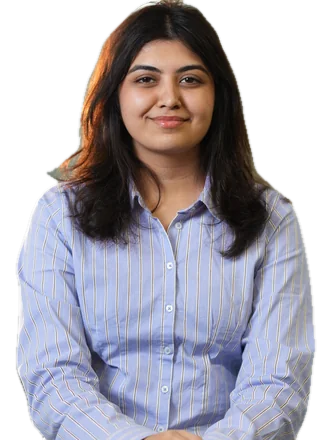
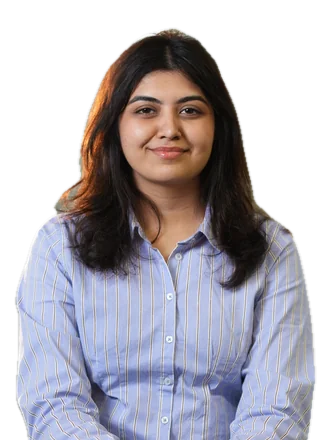
/live: headroom above every head, and a manifest that matches the disk
The crop placed the eyes at a fixed height and assumed the hair would fit
above them. It does not: a face box runs eyebrows to chin and says nothing
about hair, which varies by more than the margin that left — 91 of the first
105 came out with hair flush against the top edge.

So the crop is taken tall, the background removed, and *then* the topmost
opaque pixel measured and the frame placed against it. Everyone gets 27px in
a 440 frame, which is 8px at the size the squad renders, whatever their hair
is doing. A photograph with nothing above the head is reported by name rather
than shipped clipped.

scripts/register-people.py rewrites PEOPLE_PHOTOS from what is on disk.
Re-running the fetch meant emptying public/people first, and the manifest went
on claiming 105 files — every card showed broken images until this ran.

The header also drops its caption: "1st of 39 · All-time" repeated the numeral
behind the faces and the tab that opened the sheet.

diff --git a/config.ts b/config.ts
@@ -418,106 +418,5 @@ export const PEOPLE_PHOTOS: readonly string[] = [
   'VBC101/nirmalya-sah',
   'VBC101/sachidananda-dehury',
   'VBC101/tanishque-jain',
-  'VBC102/arpita-mahata',
-  'VBC102/diya-agarwal',
   'VBC102/simran-kalra',
-  'VBC103/kavya-zala',
-  'VBC103/pragati-singh',
-  'VBC104/preethi-s',
-  'VBC104/udhav-kothari',
-  'VBC105/harsh-malani',
-  'VBC105/meith-jain',
-  'VBC105/ritesh-oswal',
-  'VBC106/aarav',
-  'VBC106/tushar',
-  'VBC107/aditi',
-  'VBC107/satvik',
-  'VBC107/soumanshu',
-  'VBC108/akassh',
-  'VBC108/divyam',
-  'VBC108/vatsal',
-  'VBC109/ajitwsh-s',
-  'VBC109/ridhima-gupta',
-  'VBC109/shweta-singh',
-  'VBC110/diya-harish',
-  'VBC110/happy-panjwani',
-  'VBC110/rishika-choudhary',
-  'VBC111/jenessa-bhathena',
-  'VBC111/tanishq-lomte',
-  'VBC111/zalak-gogri',
-  'VBC112/naveen-kumar',
-  'VBC112/parin-kumat',
-  'VBC112/praval-goud-madduri',
-  'VBC113/archit-pathak',
-  'VBC113/riya-kothavade',
-  'VBC114/abhishek-kamblath',
-  'VBC114/aditi-roy',
-  'VBC114/kalika-srivastava',
-  'VBC115/dev-mehra',
-  'VBC115/maitree-shah',
-  'VBC115/risheet-gangar',
-  'VBC116/ananta-tantia',
-  'VBC116/rydham-jain',
-  'VBC116/vidhi-agarwal',
-  'VBC117/harsh-dubey',
-  'VBC117/pratiksha-bengani',
-  'VBC117/rishika-uppalapati',
-  'VBC118/adithya-rajagopalan',
-  'VBC118/rahul-m',
-  'VBC118/sairaj-g',
-  'VBC119/abeer-bhati',
-  'VBC119/bhadar-singh',
-  'VBC119/utkarsh-kapoor',
-  'VBC120/anushka-ghogre',
-  'VBC120/dhruvi-lohiya',
-  'VBC120/mayank-agrawal',
-  'VBC121/ashutosh-saxena',
-  'VBC121/sohum-shikhare',
-  'VBC121/tejas-joshi',
-  'VBC122/akristi-mohta',
-  'VBC122/itish-pande',
-  'VBC122/shashank-pandey',
-  'VBC123/akhilesh',
-  'VBC123/hritik',
-  'VBC123/yashwi',
-  'VBC124/aditya-peter',
-  'VBC124/naveen-kolla',
-  'VBC124/tanishkha',
-  'VBC125/anuj-bajaj',
-  'VBC125/darshan-chopda',
-  'VBC126/sarth',
-  'VBC126/vikram',
-  'VBC127/akshat',
-  'VBC127/lipika',
-  'VBC127/param',
-  'VBC128/adnaan-r',
-  'VBC128/akash-ghorpade',
-  'VBC128/vion-d-souza',
-  'VBC129/bhavya',
-  'VBC129/haider',
-  'VBC129/yogita',
-  'VBC130/anshul-dhapte',
-  'VBC130/devansh-mehta',
-  'VBC130/nikhil-kanjolia',
-  'VBC131/brijesh-attal',
-  'VBC131/rushabh-shah',
-  'VBC132/darsh-shah',
-  'VBC132/rohan-vivek',
-  'VBC132/sinchan-rai',
-  'VBC133/aditya-agarwal',
-  'VBC133/ansh-loya',
-  'VBC133/yaswanth-krishna',
-  'VBC134/dhyay',
-  'VBC134/preet',
-  'VBC134/yashansh',
-  'VBC135/devansh-vora',
-  'VBC135/madhuresh-binzani',
-  'VBC135/sakshi-awasthi',
-  'VBC136/aadishwar-r',
-  'VBC136/pratiksha-bihani',
-  'VBC138/radha-hutkey',
-  'VBC138/sahil-agrawal',
-  'VBC139/aditya-singhal',
-  'VBC139/bhavit-gupta',
-  'VBC139/harsh-nain',
 ]

diff --git a/components/live/TeamSheet.tsx b/components/live/TeamSheet.tsx
@@ -8,7 +8,7 @@ import { CountUp } from '@/components/live/CountUp'
 import { Emblem } from '@/components/live/Emblem'
 import { Squad } from '@/components/live/Lineup'
 import { SellsIcon } from '@/components/live/SellsIcon'
-import { formatCount, formatRupees, ordinal } from '@/lib/format'
+import { formatCount, formatRupees } from '@/lib/format'
 import {
   BOARD_KEYS,
   avgTicket,
@@ -165,12 +165,13 @@ export function TeamSheet({
                   transition={{ type: 'spring', stiffness: 400, damping: 36 }}
                 >
                   <h2 className="lv-sheet-name">{nameOf(race.self.team)}</h2>
-                  {/* No team id. It is a code for a spreadsheet, not a fact
-                      about a venture — the rows dropped it for the same
-                      reason. Search still matches on it. */}
-                  <p className="lv-sheet-sub">
-                    {ordinal(race.self.rank)} of {race.total} · {boardLabel(boardKey, mode)}
-                  </p>
+                  {/* **No caption under the name.** It read "1st of 39 ·
+                      All-time", and every part of that is already on screen:
+                      the rank is the numeral behind the faces and again on the
+                      placements row below, and which board you are looking at
+                      is the tab you pressed to get here. The team id went the
+                      same way and for the same reason — a code for a
+                      spreadsheet, not a fact about a venture. */}
                   {/* ── The stage: the rank behind, the faces in front ──
                    *
                    * The numeral used to be the biggest thing in the header,

diff --git a/app/live/live.css b/app/live/live.css
@@ -826,17 +826,6 @@ body:has(.lv-app[data-locked]) {
     color: inherit;
   }
 
-  .lv-sheet-sub {
-    margin: 7px 0 0;
-    /* Stated: the design system's `p` rule would otherwise paint it muted
-       purple, which disappears on every dark livery. */
-    color: inherit;
-    font-size: 11.5px;
-    font-weight: 700;
-    letter-spacing: 0.1em;
-    text-transform: uppercase;
-    opacity: 0.85;
-  }
 
   /* ── The squad ──────────────────────────────────────────── */
 

diff --git a/scripts/cutout.py b/scripts/cutout.py
@@ -36,7 +36,23 @@ QUALITY = 84
 # distances — or on a phone, or by LinkedIn — still come out the same size.
 FACE_W = 3.4
 FACE_H = 4.6
-EYE_LINE = 0.22
+
+# ── Headroom is measured on the cutout, not guessed from the face box ──
+#
+# The first version placed the eyes a fifth of the way down and hoped. **91 of
+# the first 105 came out with the hair flat against the top edge**, because the
+# face box a detector returns covers eyebrows to chin — it knows nothing about
+# how tall somebody's hair is, and that varies by more than the margin the
+# framing left.
+#
+# So the crop is taken deliberately tall, the background is removed, and *then*
+# the topmost opaque pixel — the real top of the hair — is measured and the
+# final window placed against it. Every student ends up with the same gap above
+# their head whatever their hair is doing.
+HEADROOM = 27  # px in a 440-tall frame ≈ 8px at the 132px the squad renders
+# How much taller than the final frame to cut before measuring. 1.6x covers the
+# tallest hair in the cohort with room to spare.
+OVERSHOOT = 1.6
 # How far a small photograph may be enlarged to fit the crop. Past about three
 # times, a 400px profile picture is mush and the initials are the better card.
 MAX_UPSCALE = 3.0
@@ -71,10 +87,16 @@ def face_box(model: cv2.FaceDetectorYN, image: Image.Image) -> tuple[int, int, i
 
 
 def portrait(image: Image.Image, box: tuple[int, int, int, int]) -> Image.Image:
-    """Head and shoulders, scaled off the face so everyone matches."""
+    """
+    A deliberately tall crop around the face, at the shared scale.
+
+    Taller than the frame that ships, because the top of the head cannot be
+    found until the background is gone — see `HEADROOM`. `frame` does the
+    final placement.
+    """
     x, y, w, h = box
     cw = w * FACE_W
-    ch = cw * HEIGHT / WIDTH
+    ch = cw * HEIGHT / WIDTH * OVERSHOOT
 
     # Enlarge a small source until the crop fits inside it, up to the cap.
     grow = max(cw / image.width, ch / image.height, 1.0)
@@ -82,13 +104,36 @@ def portrait(image: Image.Image, box: tuple[int, int, int, int]) -> Image.Image:
         grow = min(grow, MAX_UPSCALE)
         image = image.resize((round(image.width * grow), round(image.height * grow)), Image.LANCZOS)
         x, y, w, h = (round(v * grow) for v in (x, y, w, h))
-        cw, ch = w * FACE_W, w * FACE_W * HEIGHT / WIDTH
+        cw = w * FACE_W
+        ch = cw * HEIGHT / WIDTH * OVERSHOOT
 
     cw, ch = round(min(cw, image.width)), round(min(ch, image.height))
     cx, cy = x + w // 2, y + h // 2
     left = max(0, min(image.width - cw, round(cx - cw / 2)))
-    top = max(0, min(image.height - ch, round(cy - ch * EYE_LINE)))
-    return image.crop((left, top, left + cw, top + ch)).resize((WIDTH, HEIGHT), Image.LANCZOS)
+    # Centre the *face* in the tall crop and let `frame` decide the rest.
+    top = max(0, min(image.height - ch, round(cy - ch * 0.42)))
+    scale = WIDTH / cw
+    tall = image.crop((left, top, left + cw, top + ch))
+    return tall.resize((WIDTH, round(ch * scale)), Image.LANCZOS)
+
+
+def frame(cut: Image.Image) -> tuple[Image.Image, int]:
+    """
+    The final 330x440 window, placed so the top of the hair sits `HEADROOM`
+    below the top edge.
+
+    Returns the frame and the gap actually achieved — which is smaller only
+    when the photograph itself has nothing above the head, and the caller
+    reports those.
+    """
+    bbox = cut.getchannel("A").getbbox()
+    hair = bbox[1] if bbox else 0
+    top = max(0, hair - HEADROOM)
+    gap = hair - top
+
+    window = Image.new("RGBA", (WIDTH, HEIGHT), (0, 0, 0, 0))
+    window.paste(cut.crop((0, top, WIDTH, min(top + HEIGHT, cut.height))), (0, 0))
+    return window, gap
 
 
 def cut_out(image: Image.Image) -> Image.Image:

diff --git a/scripts/fetch-headshots.py b/scripts/fetch-headshots.py
@@ -38,7 +38,12 @@ sys.path.insert(0, str(Path(__file__).resolve().parent))
 
 from PIL import Image, ImageOps
 
-from cutout import QUALITY, cut_out, detector, face_box, portrait
+from cutout import HEADROOM, QUALITY, cut_out, detector, face_box, frame, portrait
+
+ROOT = Path(__file__).resolve().parent.parent
+OUT = ROOT / "public" / "people"
+# One original at a time, deleted before the next: peak disk is 43MB, not 22GB.
+TMP = Path("/tmp/headshot-original.jpg")
 
 FOLDER = (
     "https://www.dropbox.com/scl/fo/m36ozbh9jrqx0xerpsb5d/AAw7rl67gtYNEN0lnT1Co4o"
@@ -95,6 +100,7 @@ def main() -> int:
     written: list[str] = []
     failed: list[str] = []
     faceless: list[str] = []
+    cramped: list[str] = []
     for team, people in sorted(mapping.items()):
         if only and team not in only:
             continue
@@ -117,10 +123,13 @@ def main() -> int:
                 faceless.append(f"{team} {name} (slot {slot})")
                 TMP.unlink(missing_ok=True)
                 continue
-            crop = portrait(image, box)
+            shot, gap = frame(cut_out(portrait(image, box)))
+            if gap < HEADROOM:
+                # The photograph had nothing above the head to give.
+                cramped.append(f"{team} {name}: {gap}px of headroom, wanted {HEADROOM}")
             target.parent.mkdir(parents=True, exist_ok=True)
             # No `exif=`: the camera, the time and any GPS stay behind.
-            cut_out(crop).save(target, "WEBP", quality=QUALITY, method=6, lossless=False)
+            shot.save(target, "WEBP", quality=QUALITY, method=6, lossless=False)
             written.append(f"{team}/{target.stem}")
             TMP.unlink(missing_ok=True)
             # A breath between students. The whole run is an hour either way;
@@ -133,6 +142,8 @@ def main() -> int:
         print(f"  failed: {line}")
     for line in faceless:
         print(f"  no face found, left to initials: {line}")
+    for line in cramped:
+        print(f"  tight at the top: {line}")
     print("\nPaste into PEOPLE_PHOTOS in config.ts:\n")
     print("export const PEOPLE_PHOTOS: readonly string[] = [")
     for entry in written:

diff --git a/scripts/register-people.py b/scripts/register-people.py
@@ -1,0 +1,34 @@
+"""
+Rewrite `PEOPLE_PHOTOS` in config.ts from what is actually on disk.
+
+    python3 scripts/register-people.py
+
+**Run this after anything that writes or removes a photograph.** The manifest
+is the list the page reads — `components/live/Lineup.tsx` never looks at the
+filesystem — so an entry with no file behind it is a broken image on
+somebody's phone. That is not hypothetical: re-running the fetch meant
+emptying `public/people/` first, and for the length of that run every card
+asked for 105 files that were not there yet.
+"""
+
+import glob
+import os
+import re
+from pathlib import Path
+
+ROOT = Path(__file__).resolve().parent.parent
+entries = sorted(
+    f"{os.path.basename(os.path.dirname(f))}/{os.path.basename(f)[:-5]}"
+    for f in glob.glob(str(ROOT / "public/people/*/*.webp"))
+)
+config = ROOT / "config.ts"
+source = config.read_text()
+block = (
+    "export const PEOPLE_PHOTOS: readonly string[] = [\n"
+    + "".join(f"  '{e}',\n" for e in entries)
+    + "]"
+)
+config.write_text(
+    re.sub(r"export const PEOPLE_PHOTOS: readonly string\[\] = \[[^\]]*\]", block, source, flags=re.S)
+)
+print(f"{len(entries)} photographs registered")

diff --git a/scripts/prepare-people.py b/scripts/prepare-people.py
@@ -43,7 +43,7 @@ from pathlib import Path
 from PIL import Image, ImageOps
 
 sys.path.insert(0, str(Path(__file__).resolve().parent))
-from cutout import QUALITY, cut_out, detector, face_box, portrait, subject_share
+from cutout import HEADROOM, QUALITY, cut_out, detector, face_box, frame, portrait, subject_share
 
 try:  # optional, and only needed for iPhone originals
     import pillow_heif  # type: ignore
@@ -117,7 +117,10 @@ def main() -> int:
             )
             continue
 
-        cut = cut_out(portrait(image, box))
+        cut, gap = frame(cut_out(portrait(image, box)))
+        if gap < HEADROOM:
+            skipped.append(f"{path.name} — only {gap}px above the head; crop it looser and resend")
+            continue
         share = subject_share(cut)
         if not 0.18 < share < 0.92:
             skipped.append(f"{path.name} — background removal looks wrong ({share:.0%} subject)")

diff --git a/AGENTS.md b/AGENTS.md
@@ -594,6 +594,12 @@ is the one page here that a person holds. Added 17 September 2026.
   as four stickers, and every second one sits 12px higher so the group is a
   group.
 
+  **The header carries a name, a numeral and the faces, and nothing else.**
+  A caption reading "1st of 39 · All-time" sat under the name until 18
+  September 2026; every part of it was already on screen — the rank is the
+  watermark behind the squad and again on the placements row, and the board is
+  the tab you pressed to get there.
+
   **The rank numeral went behind them and the mark's disc went entirely.**
   The faces are what this page has that no leaderboard does, so they take the
   middle at the size that says so; the numeral is a 168px watermark at 0.22
@@ -604,7 +610,12 @@ is the one page here that a person holds. Added 17 September 2026.
 
   Photographs are `public/people/<TEAM_ID>/<name-slug>.webp`, listed in
   `PEOPLE_PHOTOS` in `config.ts` — **the list, not the filesystem**, exactly as
-  `LOGOS` works and for the same reason. The slug is derived from the
+  `LOGOS` works and for the same reason. **Run
+  `scripts/register-people.py` after anything that writes or deletes one**: the
+  page never reads the directory, so a manifest entry with no file behind it is
+  a broken image on somebody's phone. That happened — re-running the fetch
+  meant emptying `public/people/` first, and every card spent that hour asking
+  for 105 files that were not there. The slug is derived from the
   student's name at both ends, so a photograph needs no mapping file. The
   failure mode to know: a filename spelled differently from the sheet's cell
   simply never appears, on one card, silently.
